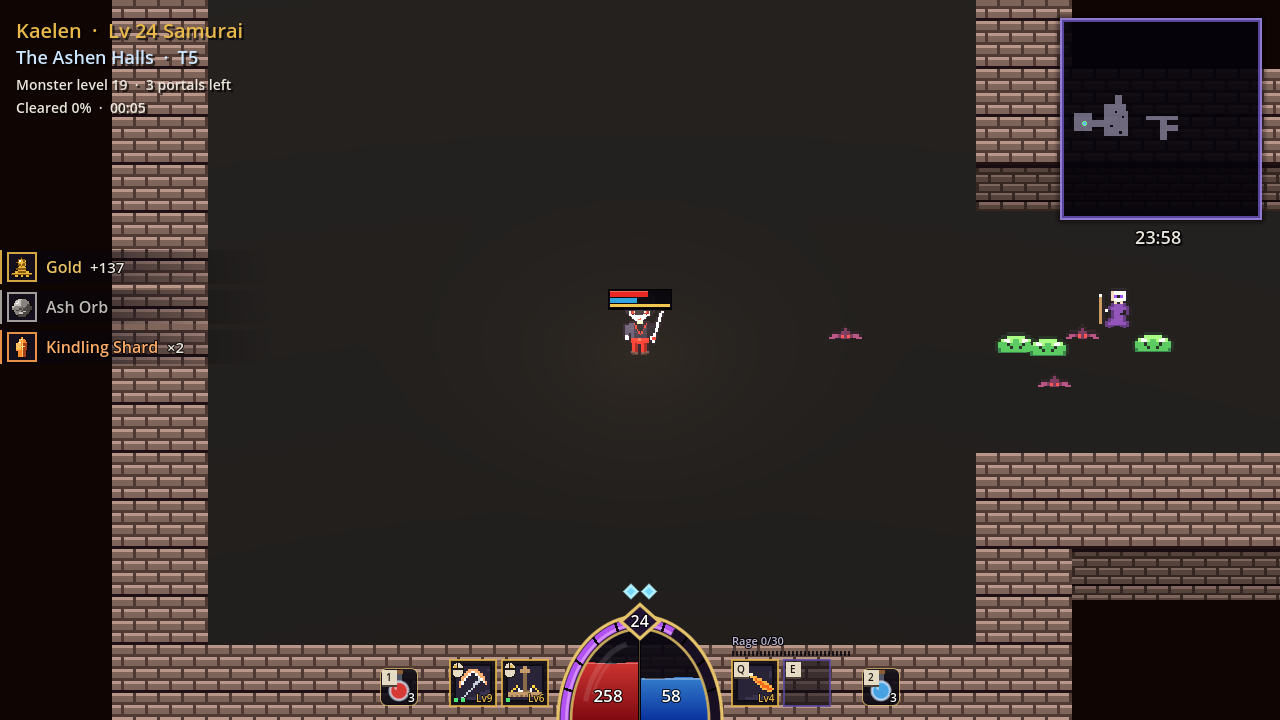
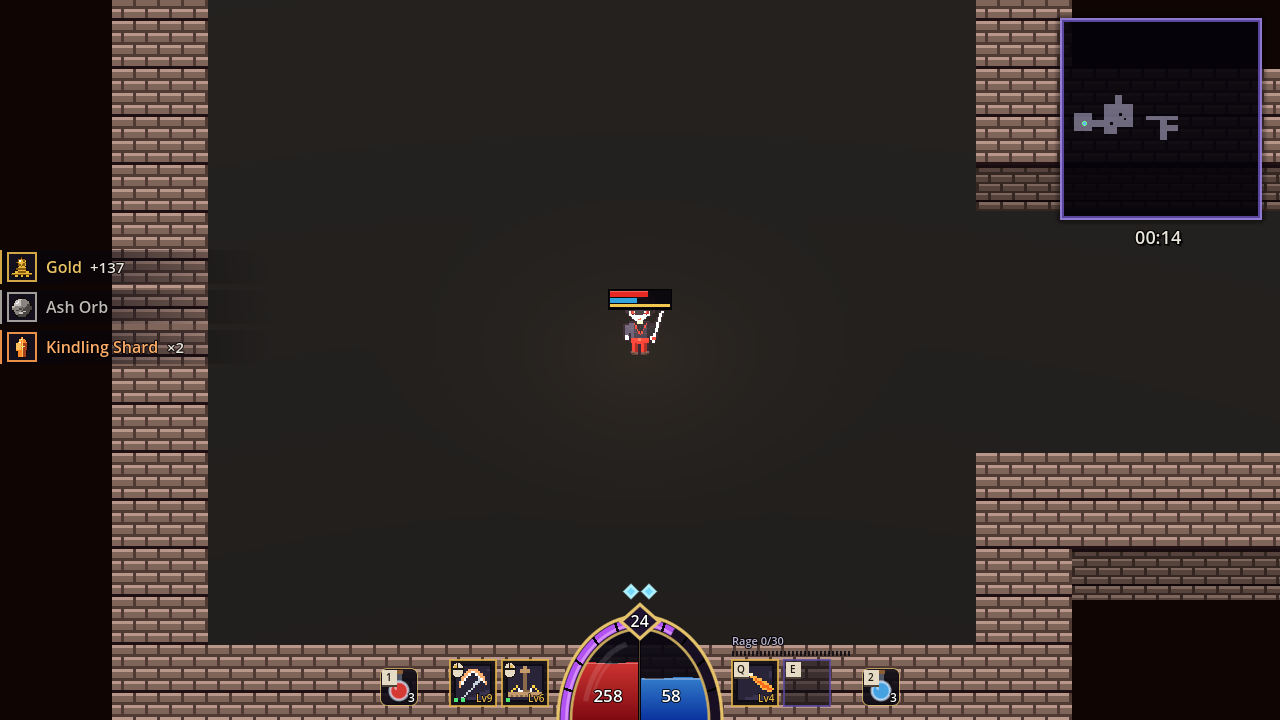
Reality HUD: no character line; dungeon info only with the Tab map
Owner's call: the top left is free during play. The name/level line is gone
(the character panel has it) and the reality's info shows over the Tab map
only. Notifications move up to the top left.

Claude-Session: https://claude.ai/code/session_01GALgSjVnubwo1yyZxU2YPv

diff --git a/scripts/UI/RealityHud.cs b/scripts/UI/RealityHud.cs
@@ -25,7 +25,10 @@ public partial class RealityHud : CanvasLayer
     private Player Player => Reality.Player;
 
     private PlayerHudBar _bar = null!;
-    private Label _levelLabel = null!;
+    private Control _infoHost = null!;
+
+    /// <summary>The reality's info shows (only with the Tab map; tests).</summary>
+    public bool InfoShowing => _infoHost.Visible;
     private Label _titleLabel = null!;
     private Label _infoLabel = null!;
     private Label _modsLabel = null!;
@@ -50,15 +53,15 @@ public partial class RealityHud : CanvasLayer
         Layer = 10;
         Control root = UiTheme.FullRect(this);
 
-        _levelLabel = UiTheme.Label("", 20, UiTheme.Gold);
-        root.AddChild(_levelLabel);
-        _levelLabel.Position = new Vector2(16f, 16f);
 
         // --- top-left, under the character: the reality's name, tier, state and modifiers ---
+        // Only while the Tab map is open, over it (owner, 2026-10-30); the character's name
+        // and level left the HUD (they are in the character panel, C).
+        _infoHost = new Control { Name = "RealityInfoHost", MouseFilter = Control.MouseFilterEnum.Ignore, Visible = false };
         var info = new VBoxContainer { Name = "RealityInfo", MouseFilter = Control.MouseFilterEnum.Ignore };
         info.AddThemeConstantOverride("separation", 2);
-        root.AddChild(info);
-        info.Position = new Vector2(16f, 44f);
+        _infoHost.AddChild(info);
+        info.Position = new Vector2(16f, 16f);
         _titleLabel = UiTheme.Label("", 18, RealityTiers.ShardColor(Reality.Tier));
         info.AddChild(_titleLabel);
         _infoLabel = UiTheme.Label("", 14, UiTheme.Text);
@@ -86,6 +89,7 @@ public partial class RealityHud : CanvasLayer
 
         // --- the Tab overlay map, under every other HUD element ---
         root.AddChild(overlay);
+        root.AddChild(_infoHost);
         root.AddChild(_corner);
         _corner.Dock();
 
@@ -108,7 +112,7 @@ public partial class RealityHud : CanvasLayer
         _toasts = new VBoxContainer();
         _toasts.AddThemeConstantOverride("separation", 2);
         root.AddChild(_toasts);
-        _toasts.Position = new Vector2(16f, 150f);
+        _toasts.Position = new Vector2(16f, 16f);
         _toasts.CustomMinimumSize = new Vector2(520f, 0f);
 
         // --- loot feed (left, mid-height) ---
@@ -137,8 +141,7 @@ public partial class RealityHud : CanvasLayer
         _callout.OffsetTop = 90f;
 
         // Movable in the HUD editor (pause menu → Edit HUD).
-        HudLayout.Register(_levelLabel, "character", "Character");
-        HudLayout.Register(info, "reality_info", "Reality info", avoid: HudAvoid.Hide);
+        HudLayout.Register(info, "reality_info", "Reality info (Tab map)", on => _infoHost.Visible = on || _corner.BigMapOpen(), HudAvoid.Hide);
         HudLayout.Register(_corner, "corner", "Minimap, clock & quests", on => _corner.Tracker?.SetPreview(on), HudAvoid.Hide);
         HudLayout.Register(_target, "boss", "Target / boss life", _target.Preview, HudAvoid.Slide);
         HudLayout.Register(_bar, "vitals", "Life, mana & flasks");
@@ -235,15 +238,7 @@ public partial class RealityHud : CanvasLayer
     public override void _Process(double delta)
     {
         float dt = (float)delta;
-        CharacterData? c = Profile.Get(this)?.Active;
-        if (_build is not null)
-        {
-            _levelLabel.Text = $"{_build.Data.Name}  ·  Lv {_build.Data.Level} {_build.Data.AscendancyDef?.Name ?? _build.Data.Class.Name}";
-        }
-        else if (c is not null)
-        {
-            _levelLabel.Text = $"{c.Name}  ·  Lv {c.Level}";
-        }
+        _infoHost.Visible = _corner.BigMapOpen();
 
         int portals = Reality.PortalsLeft;
         string cleared = Reality.MonstersTotal > 0 ? $"{Mathf.RoundToInt(100f * Reality.Kills / Reality.MonstersTotal)}%" : "-";

diff --git a/docs/design/menus.md b/docs/design/menus.md
@@ -882,3 +882,7 @@ gear if the owner wants it there too. HUD-editor id `loot_feed`.
   auto-cast skills), and the **flasks** shrank in proportion (38 px), with smaller key
   caps, mouse icons, levels and support pips.
 - The **menu bar** (bottom right) is smaller again: 26 px key caps.
+- **Reality HUD, top left (2026-10-30):** the character's name and level are gone (they
+  are in the character panel, C), and the reality's info (name, tier, monster level,
+  portals, cleared, time, modifiers) shows only while the Tab map is open, over it.
+  The notifications moved up to the top left.
